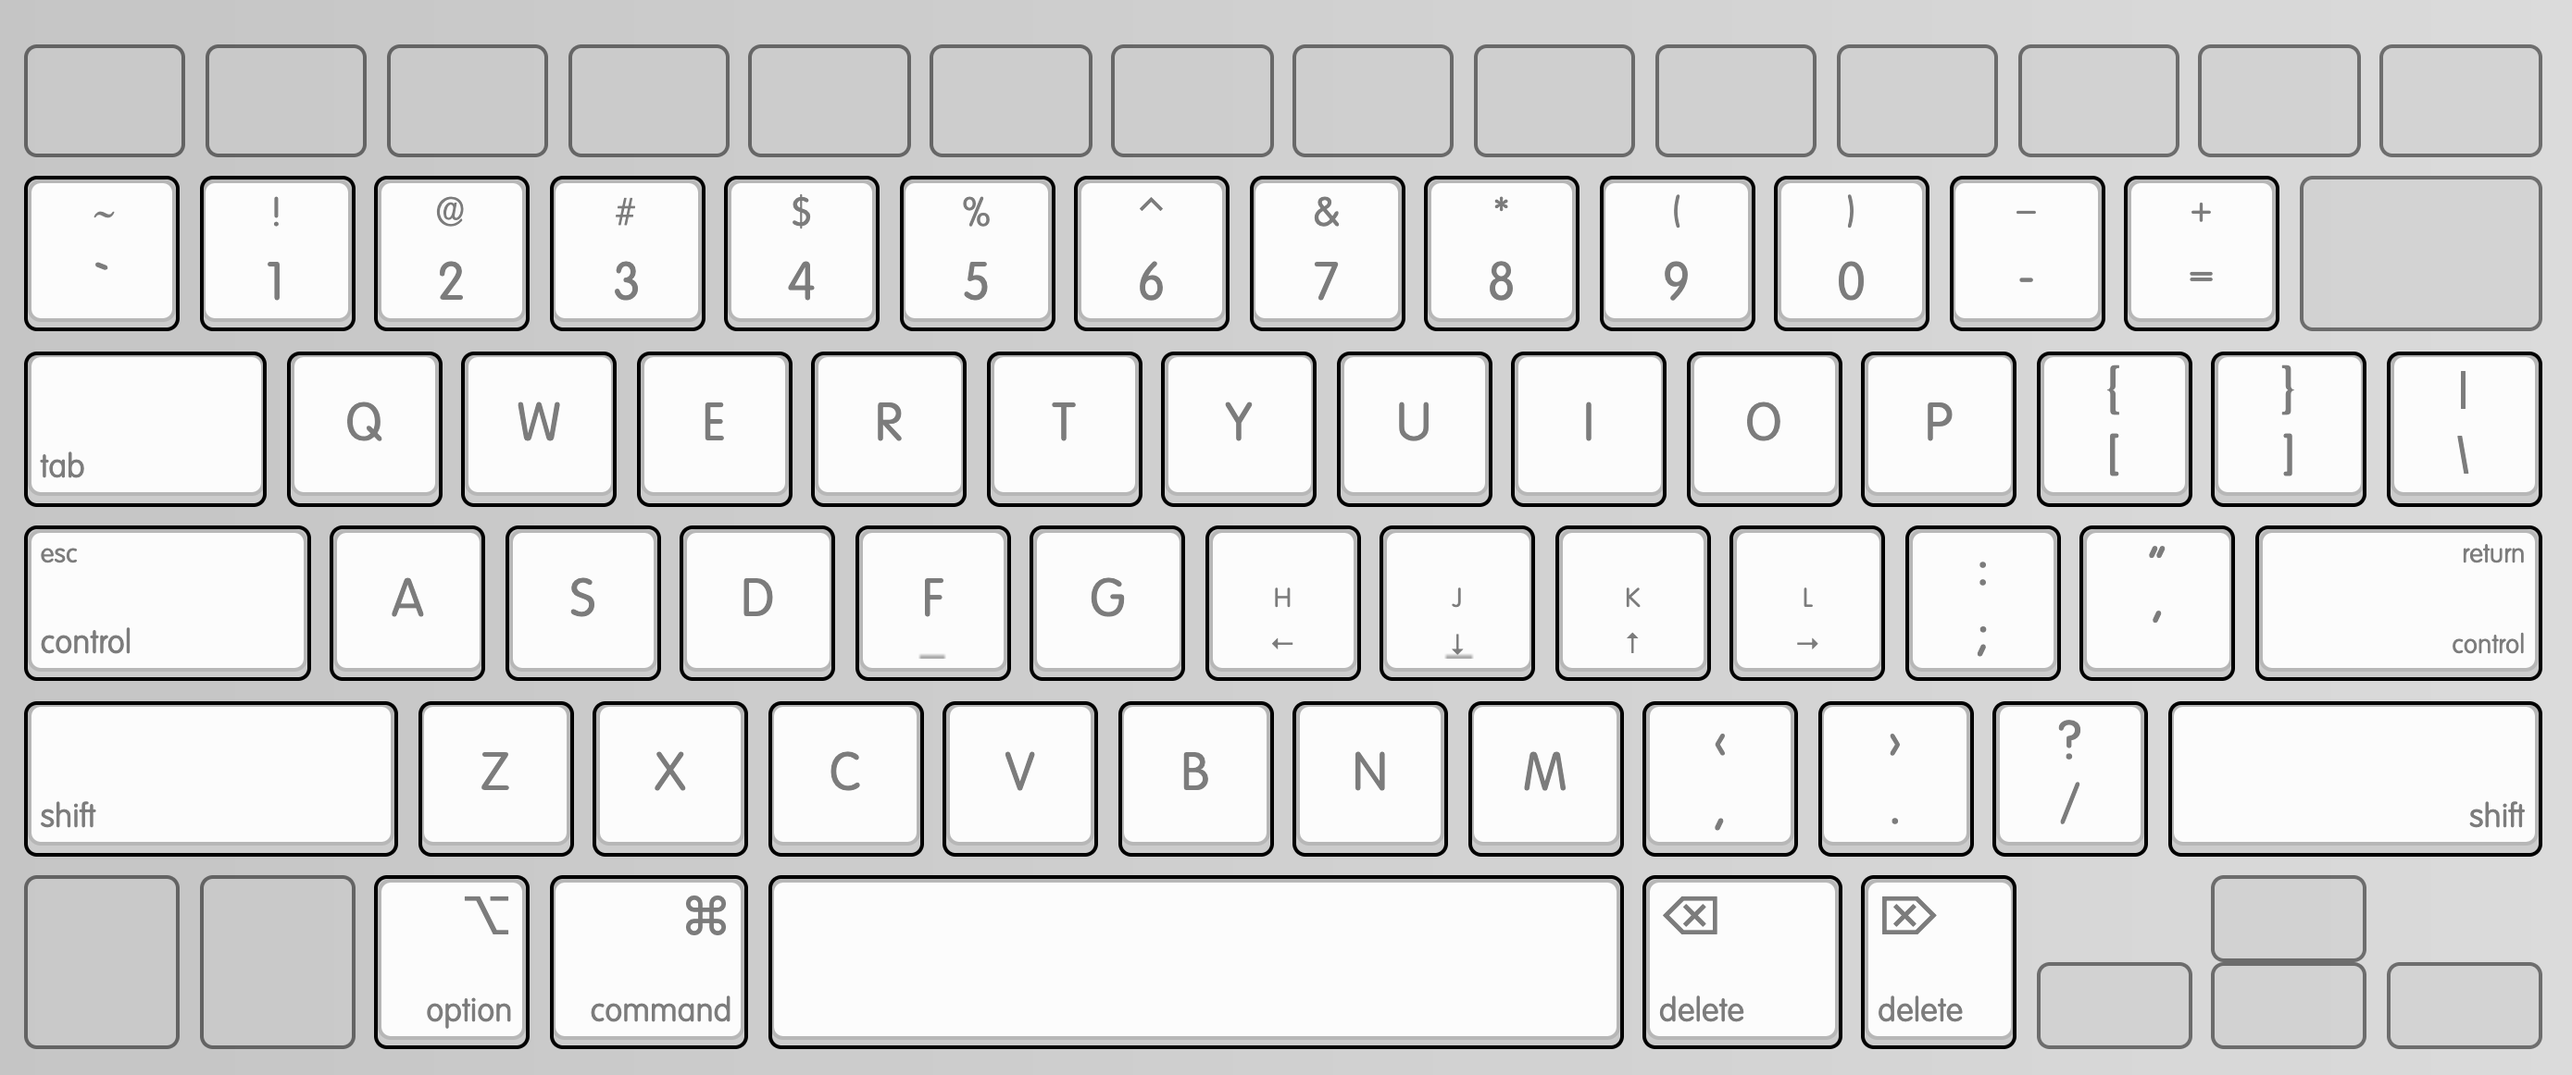
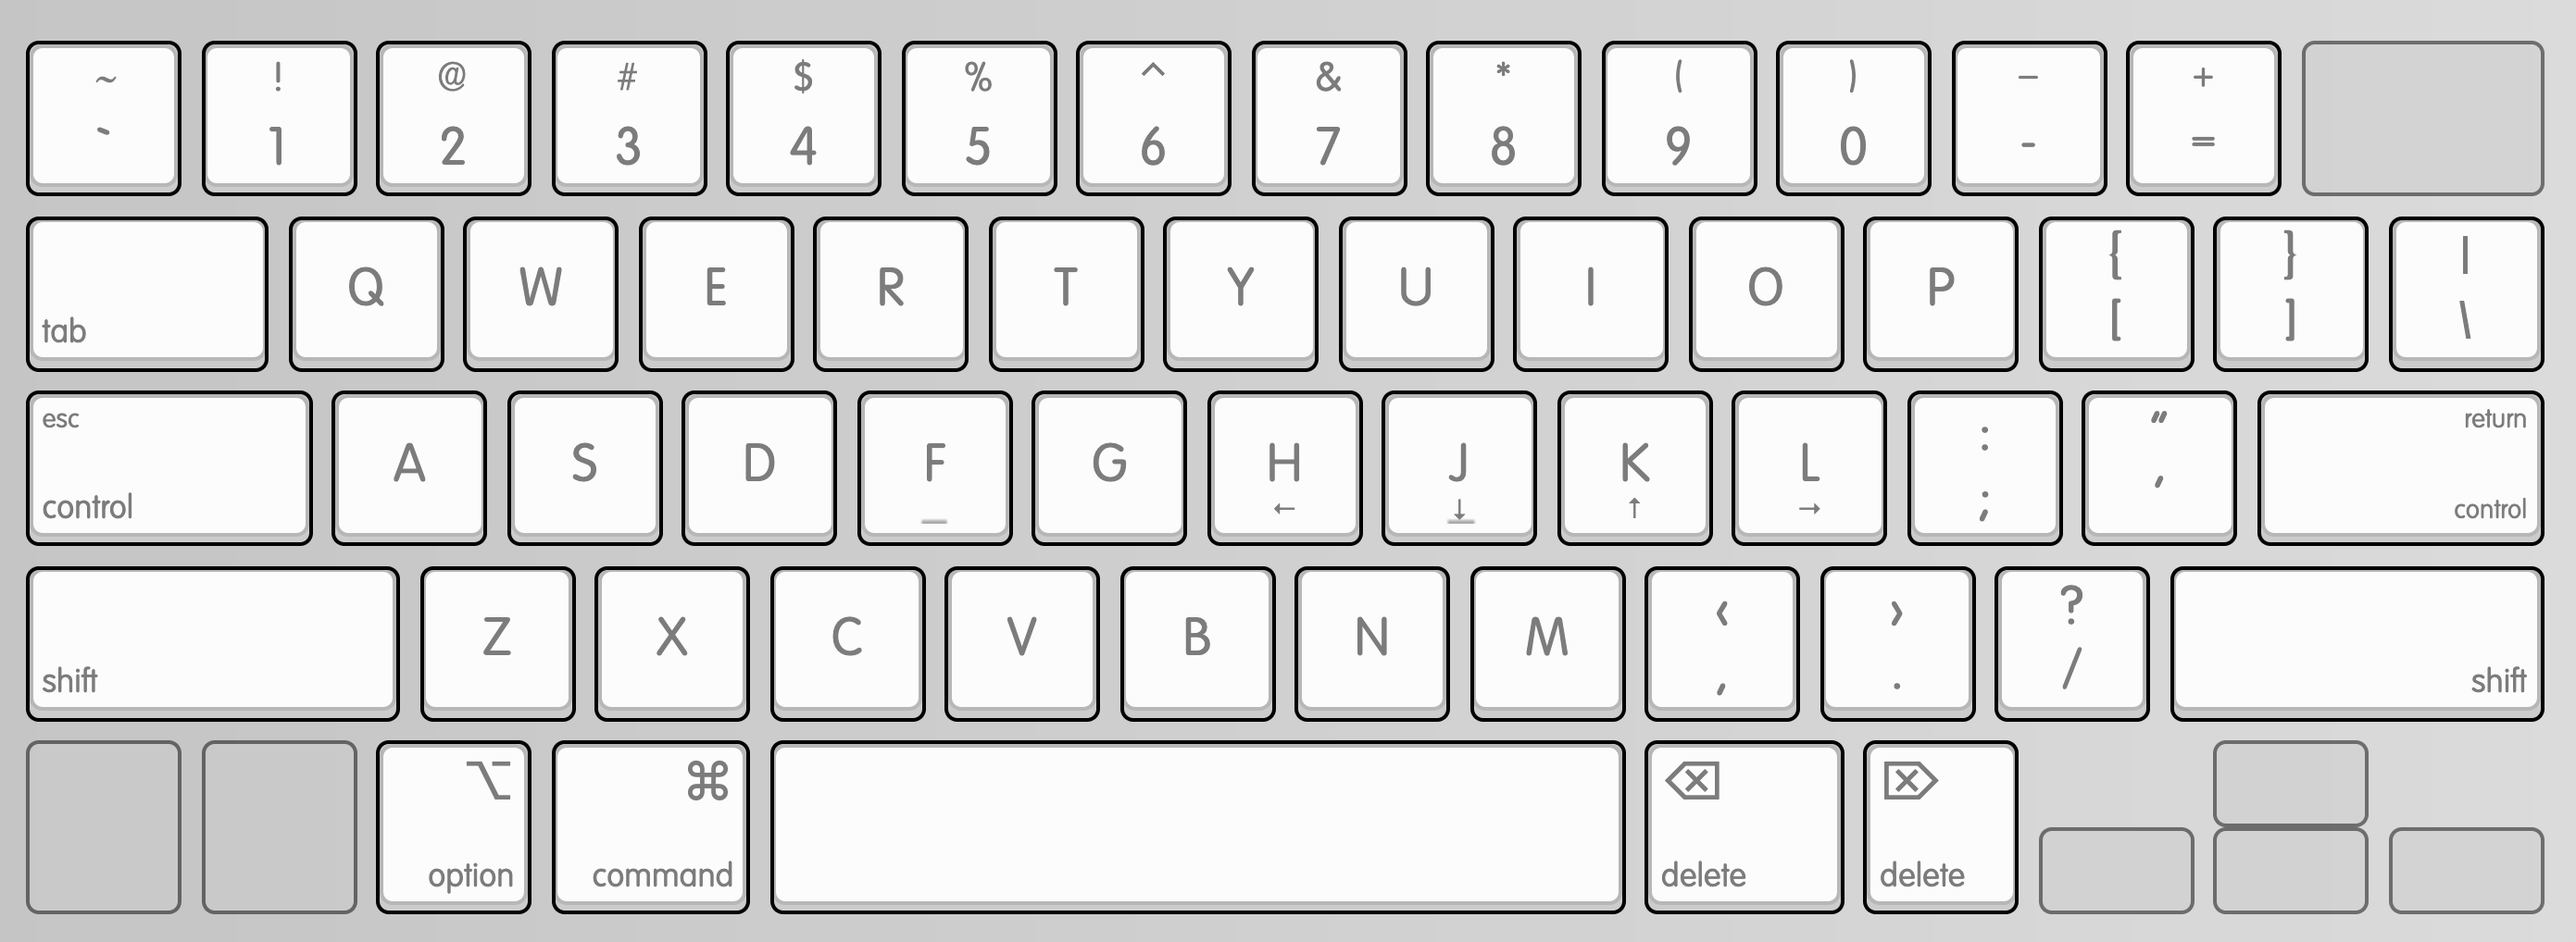
Update keyboard layout

diff --git a/README.md b/README.md
@@ -34,7 +34,7 @@ Below is the adjusted keyboard layout that I'm using:
 
 [![layout](karabiner/apple_keyboard.png)][1]
 
-[1]: http://www.keyboard-layout-editor.com/##@_backcolor=%23dbdbdb&name=Apple%20Wireless%20Keyboard&author=Alistair%20Calder&radii=6px%206px%2012px%2012px%20%2F%2F%2018px%2018px%2012px%2012px&css=%2F@import%20url(http%2F:%2F%2F%2F%2Ffonts.googleapis.com%2F%2Fcss%3Ffamily%2F=Varela+Round)%2F%3B%0A%0A%23keyboard-bg%20%7B%20%0A%20%20%20%20background-image%2F:%20linear-gradient(to%20bottom,%20rgba(0,0,0,0.5)%200%25,%20rgba(0,0,0,0)%204%25,%20rgba(255,255,255,0.3)%206%25,%20rgba(0,0,0,0)%2010%25),%20%0A%20%20%20%20%20%20%20%20%20%20%20%20%20%20%20%20%20%20%20%20%20%20linear-gradient(to%20right,%20rgba(0,0,0,0.1)%200%25,%20rgba(0,0,0,0)%20100%25)%20!important%2F%3B%20%0A%7D%0A%0A.keylabel%20%7B%0A%20%20%20%20font-family%2F:%20'volkswagen%2F_serialregular'%2F%3B%0A%7D%0A%0A%2F%2F*%20Strangely,%20%22Volkswagen%20Serial%22%20doesn't%20have%20a%20tilde%20character%20*%2F%2F%0A.varela%20%7B%20%0A%20%20%20%20font-family%2F:%20'Varela%20Round'%2F%3B%20%0A%20%20%20%20display%2F:%20inline-block%2F%3B%20%0A%20%20%20%20font-size%2F:%20inherit%2F%3B%20%0A%20%20%20%20text-rendering%2F:%20auto%2F%3B%20%0A%20%20%20%20-webkit-font-smoothing%2F:%20antialiased%2F%3B%20%0A%20%20%20%20-moz-osx-font-smoothing%2F:%20grayscale%2F%3B%0A%20%20%20%20transform%2F:%20translate(0,%200)%2F%3B%0A%7D%0A.varela-tilde%2F:after%20%7B%20content%2F:%20%22%5C07e%22%2F%3B%20%7D&pcb:false&plate:false%3B&@_y:0.75&t=%23666666&g:true&p=CHICKLET&a:7&f:2&w:1.0357&h:0.75%3B&=esc&_a:4&fa@:0&:0&:0&:1%3B&w:1.0357&h:0.75%3B&=%0A%0A%0AF1&_w:1.0357&h:0.75%3B&=%0A%0A%0AF2&_w:1.0357&h:0.75%3B&=%0A%0A%0AF3&_w:1.0357&h:0.75%3B&=%0A%0A%0AF4&_w:1.0357&h:0.75%3B&=%0A%0A%0AF5&_w:1.0357&h:0.75%3B&=%0A%0A%0AF6&_w:1.0357&h:0.75%3B&=%0A%0A%0AF7%0A%0A%0A%0A%0A%0A%3Ci%20class%2F='fa%20fa-backward'%3E%3C%2F%2Fi%3E&_fa@:0&:0&:0&:1&:0&:0&:0&:0&:0&:1%3B&w:1.0357&h:0.75%3B&=%0A%0A%0AF8%0A%0A%0A%0A%0A%0A%3Ci%20class%2F='fa%20fa-play'%3E%3C%2F%2Fi%3E%3Ci%20class%2F='fa%20fa-pause'%3E%3C%2F%2Fi%3E&_fa@:0&:0&:0&:1%3B&w:1.0357&h:0.75%3B&=%0A%0A%0AF9%0A%0A%0A%0A%0A%0A%3Ci%20class%2F='fa%20fa-forward'%3E%3C%2F%2Fi%3E&_w:1.0357&h:0.75%3B&=%0A%0A%0AF10%0A%0A%0A%0A%0A%0A%3Ci%20class%2F='fa%20fa-volume-off'%3E%3C%2F%2Fi%3E&_w:1.0357&h:0.75%3B&=%0A%0A%0AF11%0A%0A%0A%0A%0A%0A%3Ci%20class%2F='fa%20fa-volume-down'%3E%3C%2F%2Fi%3E&_w:1.0357&h:0.75%3B&=%0A%0A%0AF12%0A%0A%0A%0A%0A%0A%3Ci%20class%2F='fa%20fa-volume-up'%3E%3C%2F%2Fi%3E&_a:7&w:1.0357&h:0.75%3B&=%3Ci%20class%2F='fa%20fa-eject'%3E%3C%2F%2Fi%3E%3B&@_y:-0.25&g:false&a:5&f:5&fa@:3%3B%3B&=%3Ci%20class%2F=%22varela%20varela-tilde%22%3E%3C%2F%2Fi%3E%0A%60&=!%0A1&=%2F@%0A2&=%23%0A3&=$%0A4&=%25%0A5&=%E2%8C%83%0A6&=%2F&%0A7&=*%0A8&=(%0A9&=)%0A0&_fa@:3&=undefined%3B%3B&=%E2%80%93%0A-&=+%0A%2F=&_g:true&a:4&f:2&w:1.5%3B&=%0A%0A%0Adelete%3B&@_g:false&w:1.5%3B&=%0Atab&_a:7&f:5%3B&=Q&=W&=E&=R&=T&=Y&=U&=I&=O&=P&_a:5%3B&=%7B%0A%5B&=%7D%0A%5D&=%7C%0A%5C%3B&@_a:4&f:2&fa@:1%3B&w:1.75%3B&=esc%0Acontrol&_a:7&f:5%3B&=A&=S&=D&_n:true%3B&=F&=G&_a:5&fa@:0&:1&:0&:0&:0&:0&:1%3B%3B&=%0A%E2%86%90%0A%0A%0A%0A%0AH&_n:true%3B&=%0A%E2%86%93%0A%0A%0A%0A%0AJ&=%0A%E2%86%91%0A%0A%0A%0A%0AK&_sm=alps%3B&=%0A%E2%86%92%0A%0A%0A%0A%0AL&_f:5%3B&=%2F:%0A%2F%3B&_f:5%3B&=%22%0A'&_a:4&f:2&f2:1&w:1.75%3B&=%0A%0Areturn%0Acontrol%3B&@_f:2&w:2.25%3B&=%0Ashift&_a:7&f:5%3B&=Z&=X&=C&=V&=B&=N&=M&_a:5%3B&=%3C%0A,&=%3E%0A.&=%3F%0A%2F%2F&_a:4&f:2&w:2.25%3B&=%0A%0A%0Ashift%3B&@_g:true&h:1.111%3B&=%0Afn&_fa@:0&:0&:5%3B&h:1.111%3B&=%0A%0A%E2%8C%83%0Acontrol&_g:false&h:1.111%3B&=%0A%0A%E2%8C%A5%0Aoption&_w:1.25&h:1.111%3B&=%0A%0A%E2%8C%98%0Acommand&_a:7&w:5&h:1.111%3B&=&_a:4&fa@:5%3B&w:1.25&h:1.111%3B&=%E2%8C%AB%0Adelete&_h:1.111%3B&=%E2%8C%A6%0Ahyper&_x:1&g:true&a:7&f:5&h:0.611%3B&=%E2%86%91%3B&@_y:-0.5&x:11.5&h:0.6111%3B&=%E2%86%90&_h:0.6111%3B&=%E2%86%93&_h:0.6111%3B&=%E2%86%92
+[1]: http://www.keyboard-layout-editor.com/##@_backcolor=%23dbdbdb&name=Apple%20Wireless%20Keyboard&author=Alistair%20Calder&radii=6px%206px%2012px%2012px%20%2F%2F%2018px%2018px%2012px%2012px&css=%2F@import%20url(http%2F:%2F%2F%2F%2Ffonts.googleapis.com%2F%2Fcss%3Ffamily%2F=Varela+Round)%2F%3B%0A%0A%23keyboard-bg%20%7B%20%0A%20%20%20%20background-image%2F:%20linear-gradient(to%20bottom,%20rgba(0,0,0,0.5)%200%25,%20rgba(0,0,0,0)%204%25,%20rgba(255,255,255,0.3)%206%25,%20rgba(0,0,0,0)%2010%25),%20%0A%20%20%20%20%20%20%20%20%20%20%20%20%20%20%20%20%20%20%20%20%20%20linear-gradient(to%20right,%20rgba(0,0,0,0.1)%200%25,%20rgba(0,0,0,0)%20100%25)%20!important%2F%3B%20%0A%7D%0A%0A.keylabel%20%7B%0A%20%20%20%20font-family%2F:%20'volkswagen%2F_serialregular'%2F%3B%0A%7D%0A%0A%2F%2F*%20Strangely,%20%22Volkswagen%20Serial%22%20doesn't%20have%20a%20tilde%20character%20*%2F%2F%0A.varela%20%7B%20%0A%20%20%20%20font-family%2F:%20'Varela%20Round'%2F%3B%20%0A%20%20%20%20display%2F:%20inline-block%2F%3B%20%0A%20%20%20%20font-size%2F:%20inherit%2F%3B%20%0A%20%20%20%20text-rendering%2F:%20auto%2F%3B%20%0A%20%20%20%20-webkit-font-smoothing%2F:%20antialiased%2F%3B%20%0A%20%20%20%20-moz-osx-font-smoothing%2F:%20grayscale%2F%3B%0A%20%20%20%20transform%2F:%20translate(0,%200)%2F%3B%0A%7D%0A.varela-tilde%2F:after%20%7B%20content%2F:%20%22%5C07e%22%2F%3B%20%7D&pcb:false&plate:false%3B&@_y:1.5&t=%23666666&p=CHICKLET&a:5&f:5&fa@:3%3B%3B&=%3Ci%20class%2F=%22varela%20varela-tilde%22%3E%3C%2F%2Fi%3E%0A%60&=!%0A1&=%2F@%0A2&=%23%0A3&=$%0A4&=%25%0A5&=%E2%8C%83%0A6&=%2F&%0A7&=*%0A8&=(%0A9&=)%0A0&_fa@:3&=undefined%3B%3B&=%E2%80%93%0A-&=+%0A%2F=&_g:true&a:4&f:2&w:1.5%3B&=%0A%0A%0Adelete%3B&@_g:false&w:1.5%3B&=%0Atab&_a:7&f:5%3B&=Q&=W&=E&=R&=T&=Y&=U&=I&=O&=P&_a:5%3B&=%7B%0A%5B&=%7D%0A%5D&=%7C%0A%5C%3B&@_a:4&f:2&fa@:1%3B&w:1.75%3B&=esc%0Acontrol&_a:7&f:5%3B&=A&=S&=D&_n:true%3B&=F&=G&_a:5&fa@:0&:1&:0&:0&:0&:0&:0%3B%3B&=%0A%E2%86%90%0A%0A%0A%0A%0AH&_fa@:0&:1&:0&:0&:0&:0&:6%3B&n:true%3B&=%0A%E2%86%93%0A%0A%0A%0A%0AJ&_fa@:0&:1&:0&:0&:0&:0&:0%3B%3B&=%0A%E2%86%91%0A%0A%0A%0A%0AK&_sm=alps&fa@:0&:1&:0&:0&:0&:0&:1%3B%3B&=%0A%E2%86%92%0A%0A%0A%0A%0AL&_f:5%3B&=%2F:%0A%2F%3B&_f:5%3B&=%22%0A'&_a:4&f:2&f2:1&w:1.75%3B&=%0A%0Areturn%0Acontrol%3B&@_f:2&w:2.25%3B&=%0Ashift&_a:7&f:5%3B&=Z&=X&=C&=V&=B&=N&=M&_a:5&fa@:6%3B%3B&=%3C%0A,&=%3E%0A.&_f:5%3B&=%3F%0A%2F%2F&_a:4&f:2&w:2.25%3B&=%0A%0A%0Ashift%3B&@_g:true&h:1.111%3B&=%0Afn&_fa@:0&:0&:5%3B&h:1.111%3B&=%0A%0A%E2%8C%83%0Acontrol&_g:false&h:1.111%3B&=%0A%0A%E2%8C%A5%0Aoption&_w:1.25&h:1.111%3B&=%0A%0A%E2%8C%98%0Acommand&_a:7&w:5&h:1.111%3B&=&_a:4&fa@:5%3B&w:1.25&h:1.111%3B&=%E2%8C%AB%0Adelete&_h:1.111%3B&=%E2%8C%A6%0Adelete&_x:1&g:true&a:7&f:5&h:0.611%3B&=%E2%86%91%3B&@_y:-0.5&x:11.5&h:0.6111%3B&=%E2%86%90&_h:0.6111%3B&=%E2%86%93&_h:0.6111%3B&=%E2%86%92
 
 ## Vim `HJKL` everywhere with [Karabiner](karabiner/.config/karabiner/karabiner.json)
 
